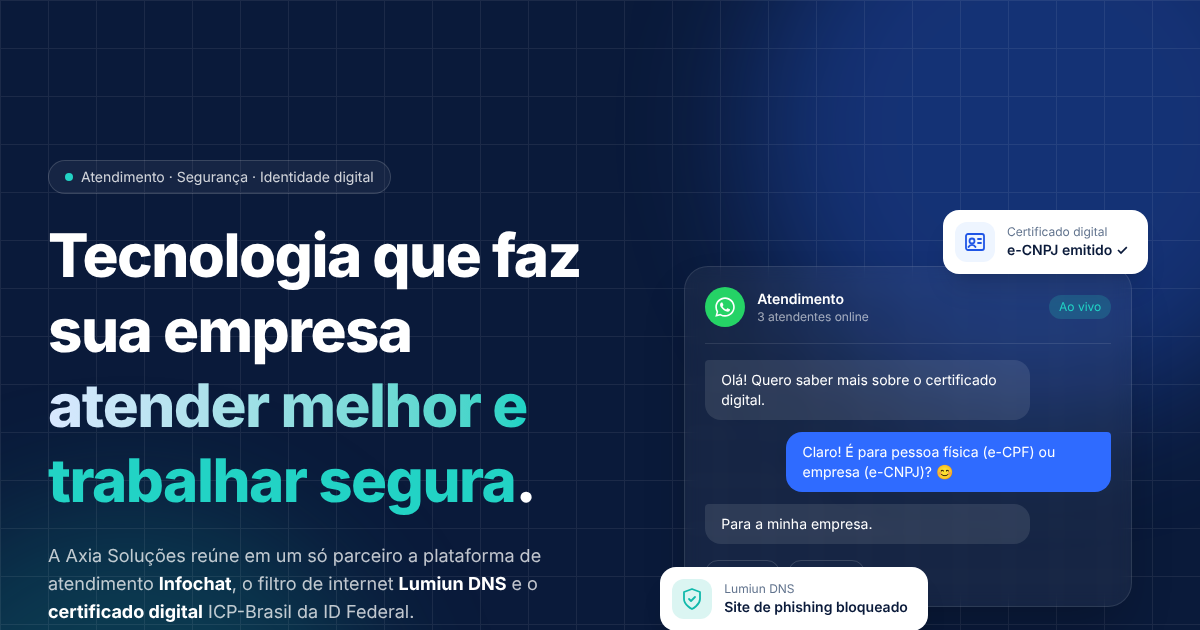
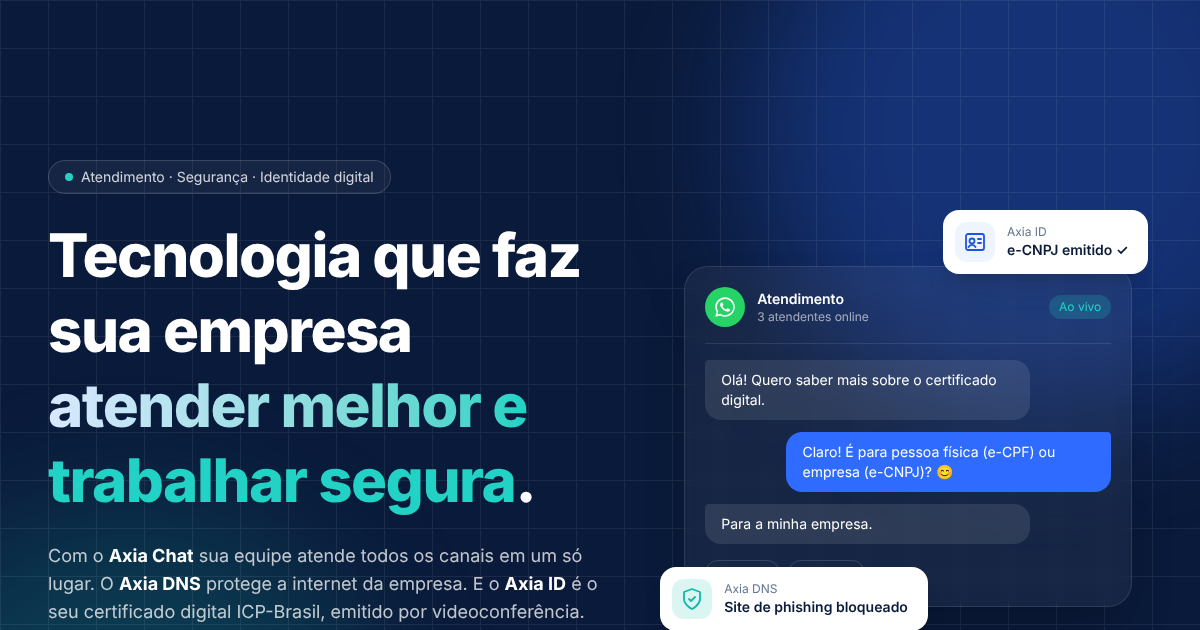
Renomeia produtos para Axia Chat, Axia DNS e Axia ID
Remove referências a fornecedores e parceiros: o site passa a apresentar
os produtos como próprios da Axia Soluções (textos, menu, rodapé, SEO,
README e imagem de compartilhamento).

Claude-Session: https://claude.ai/code/session_01THx4TMTYVbNDgB6Qr8JRse

Changed region(s): [[0.0308, 0.8746, 0.4933, 0.9952], [0.8325, 0.3619, 0.925, 0.3921], [0.6167, 0.9048, 0.6475, 0.9651]]

diff --git a/src/data/site.ts b/src/data/site.ts
@@ -4,7 +4,7 @@ export const site = {
     nome: 'Axia Soluções',
     slogan: 'Atendimento, segurança e identidade digital para a sua empresa',
     descricao:
-        'A Axia Soluções oferece plataforma de atendimento multicanal (Infochat), filtro DNS para segurança da internet (Lumiun DNS) e certificado digital ICP-Brasil (ID Federal) para empresas e profissionais.',
+        'Axia Soluções: Axia Chat para atendimento multicanal no WhatsApp, Axia DNS para proteger a internet da empresa e Axia ID, certificado digital ICP-Brasil emitido por videoconferência.',
     // Número do WhatsApp no formato internacional, somente dígitos (55 + DDD + número).
     // TODO: substituir pelo número real da Axia Soluções.
     whatsapp: '5500000000000',

diff --git a/src/data/clientes.ts b/src/data/clientes.ts
@@ -1,11 +1,11 @@
-// Clientes exibidos no carrossel da seção Infochat.
+// Clientes exibidos no carrossel da seção Axia Chat.
 //
 // Para usar logotipos reais: coloque o arquivo em /public/clientes/ (PNG ou SVG,
 // de preferência com fundo transparente) e informe o caminho em `logo`,
 // por exemplo: { nome: 'Empresa X', logo: '/clientes/empresa-x.png' }.
 // Sem `logo`, o nome é exibido em formato de selo.
 //
-// TODO: substituir pelos clientes reais que utilizam o Infochat.
+// TODO: substituir pelos clientes reais que utilizam o Axia Chat.
 
 export interface Cliente {
     nome: string;

diff --git a/README.md b/README.md
@@ -1,6 +1,6 @@
 # Axia Soluções — site institucional
 
-Site da **Axia Soluções**, revenda de ferramentas de atendimento (Infochat), filtro DNS (Lumiun DNS) e certificado digital ICP-Brasil (ID Federal).
+Site da **Axia Soluções** e dos produtos **Axia Chat** (atendimento multicanal), **Axia DNS** (filtro DNS e segurança) e **Axia ID** (certificado digital ICP-Brasil).
 
 Feito com [Astro](https://astro.build) + Tailwind CSS, gerado como site **estático** e pronto para o **Cloudflare Pages**.
 
